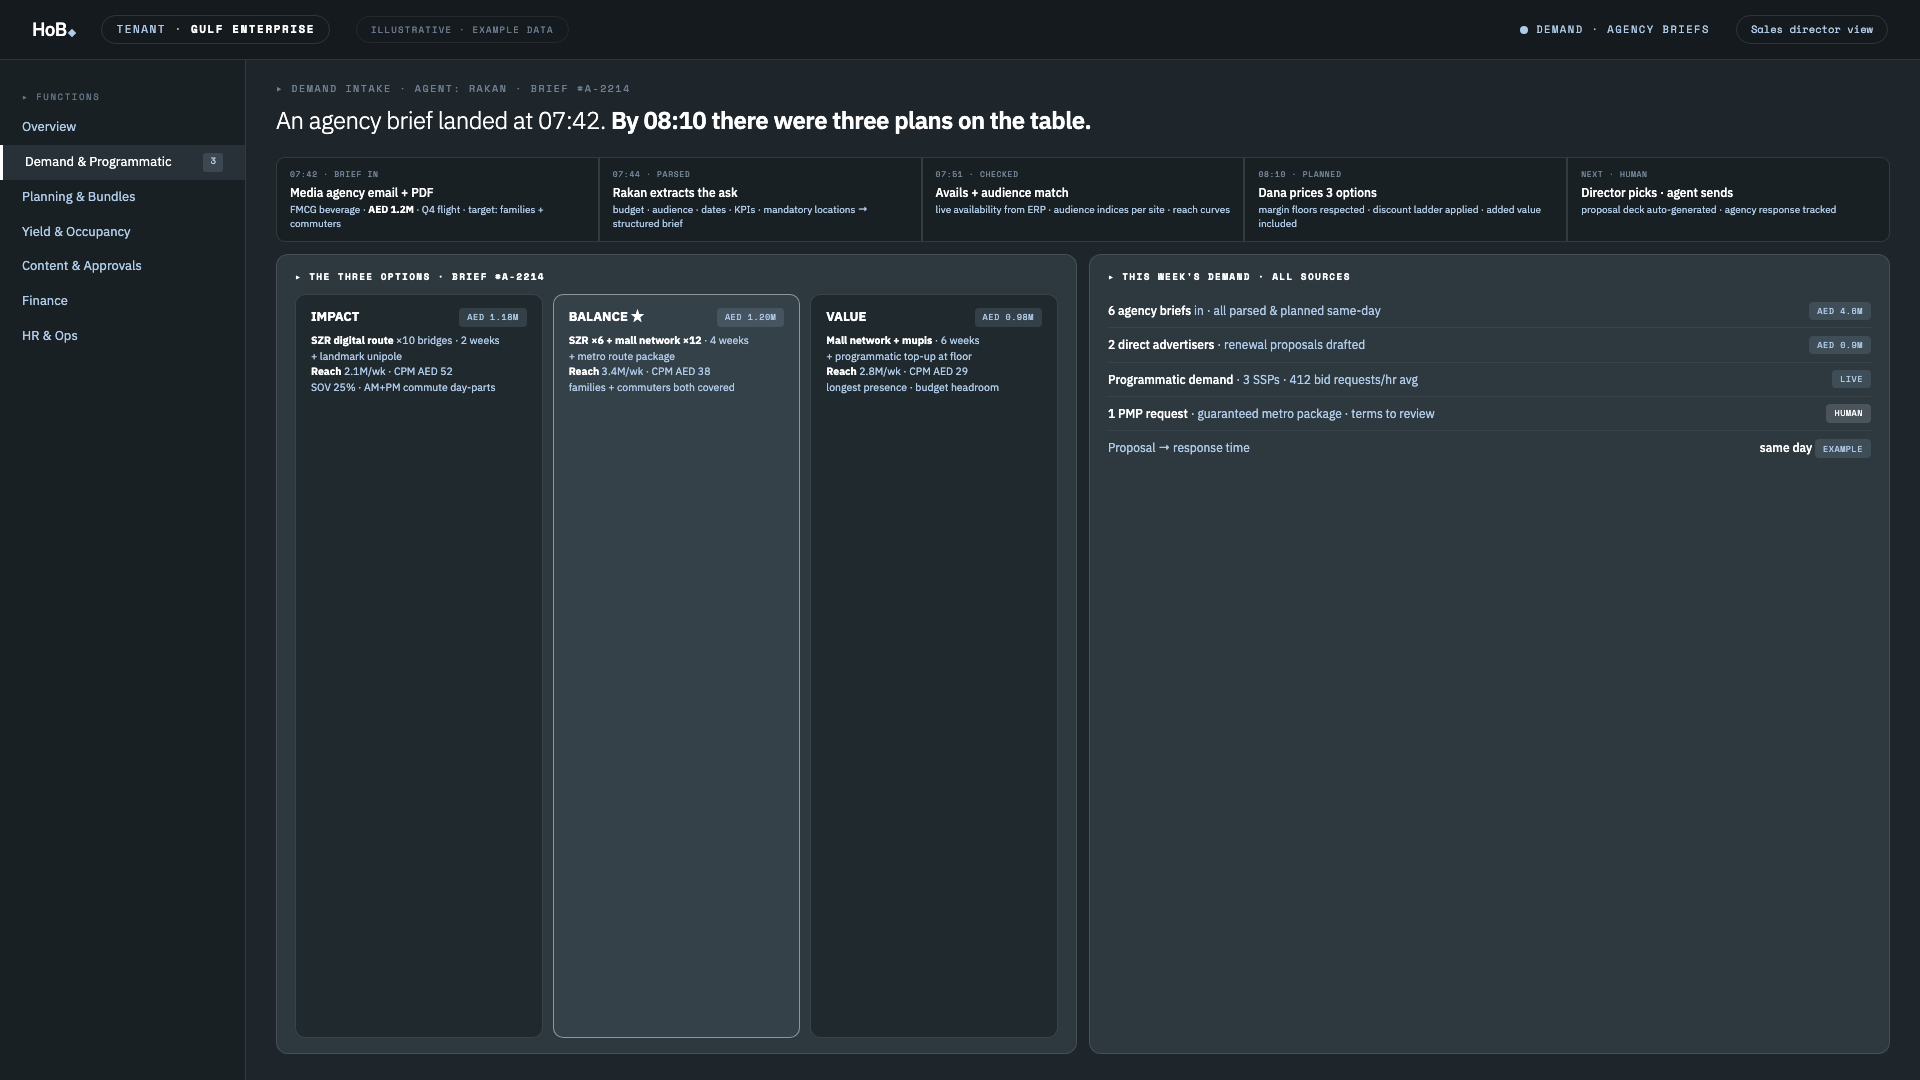
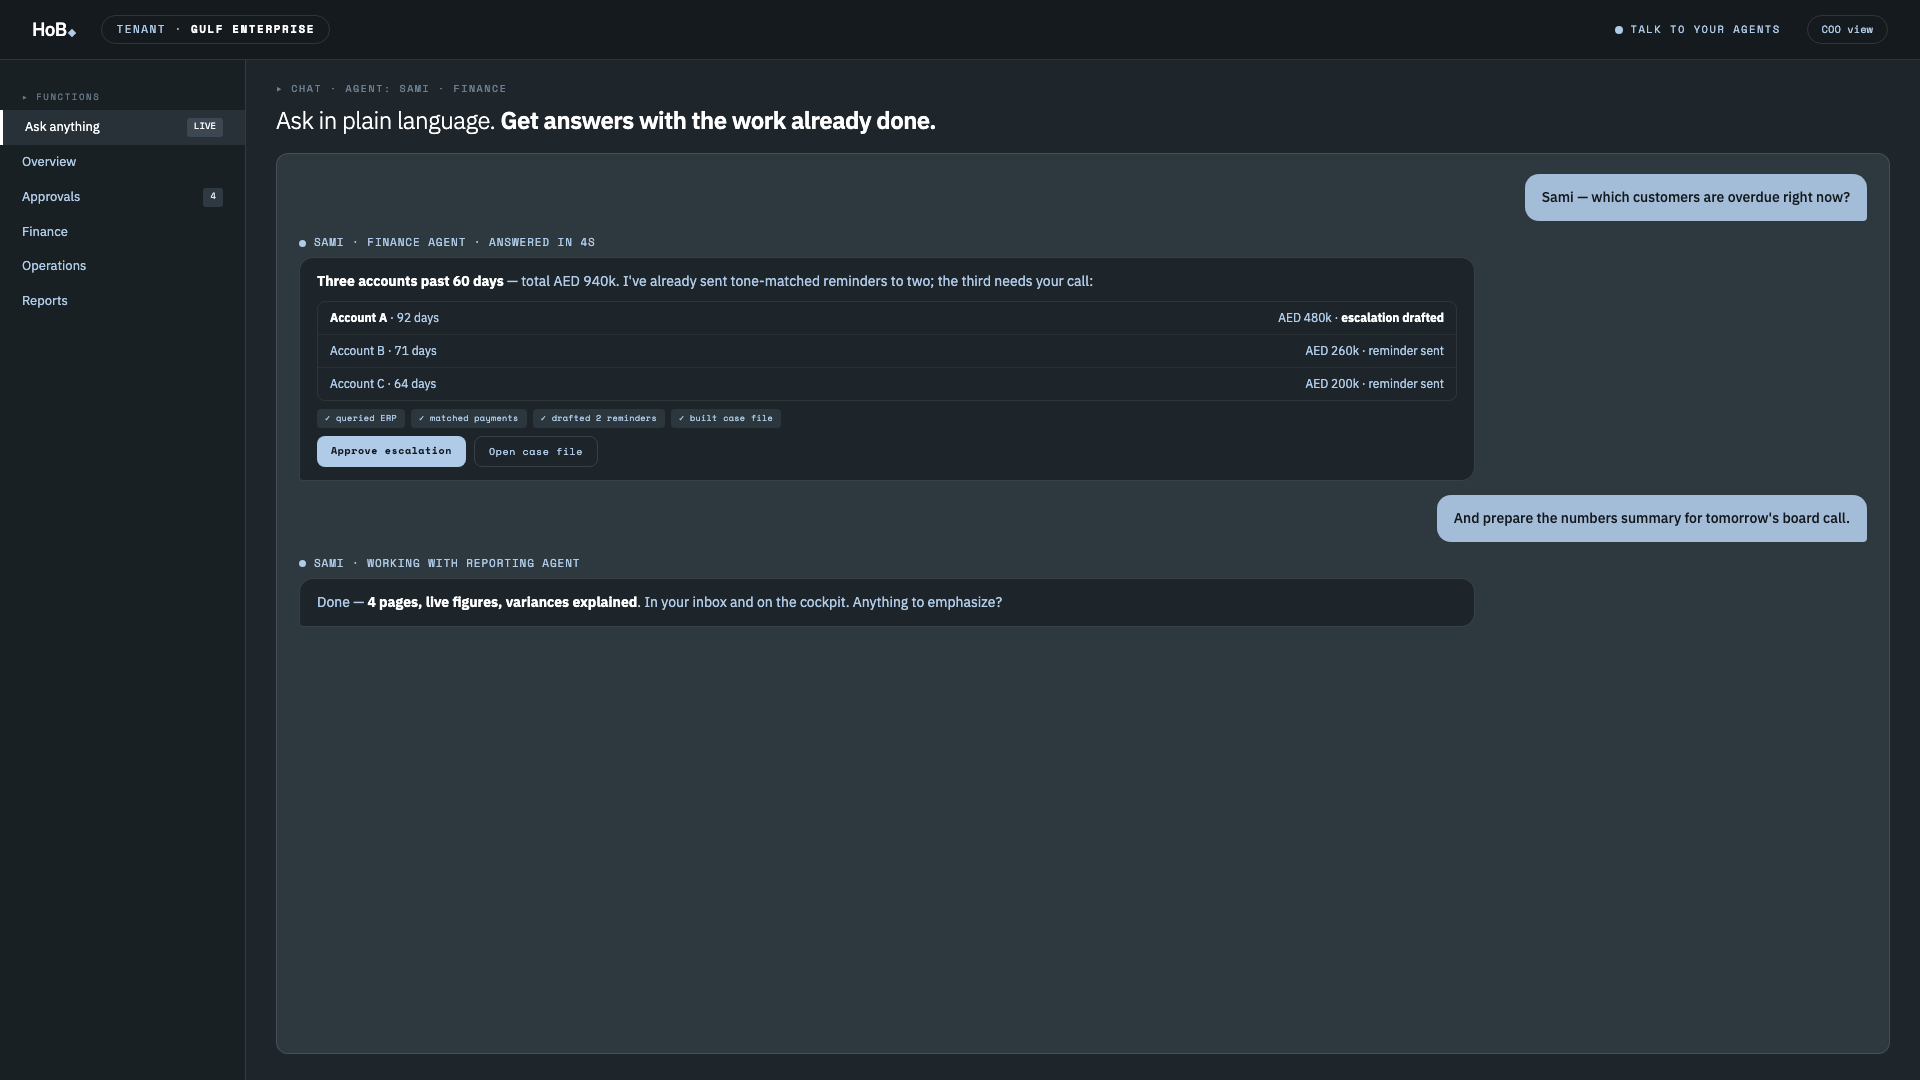
cockpit animation: generic screens — agent chat, quote flow, collections (no client-specific content)

diff --git a/index.html b/index.html
@@ -276,7 +276,7 @@ footer a{color:var(--text);text-decoration:none}
       <div class="slide"><img src="img/cockpit-4.png" alt="finance live"></div>
     </div>
     <div class="macbase"></div>
-    <div class="maccap">the HoB cockpit · live rotation: overview → agents working → approvals → finance · illustrative</div>
+    <div class="maccap">the HoB cockpit · live rotation: overview → chat with an agent → the quote agent → collections · illustrative</div>
   </div>
   <div class="fig">
     <div class="f"><div class="n">24+</div><div class="l">clients served by agents across the portfolio</div></div>